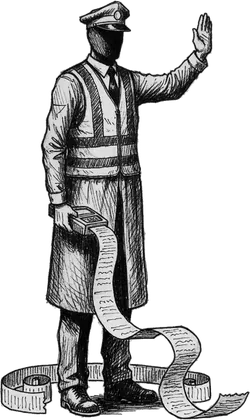
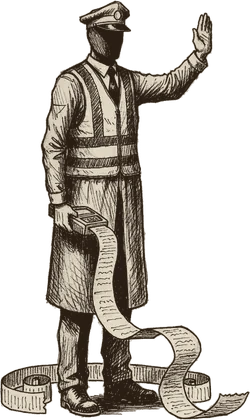
Fight: sepia enemies and portraits, life as one drop and a number, intent glyph and number centred together
tools/art/sepia.py locks grey art to the ink-to-paper ramp; ui:check gains
a non-attack intent state and measures it.

Claude-Session: https://claude.ai/code/session_01XK56x6EkciZruNGShKy1r8

diff --git a/apps/play/src/styles.css b/apps/play/src/styles.css
@@ -793,7 +793,14 @@ footer {
   width: 22px;
   height: 22px;
 }
-.threat > b {
+.threat > .mark {
+  position: relative;
+  display: flex;
+  align-items: center;
+  gap: 2px;
+}
+.threat > b,
+.threat > .mark b {
   position: relative;
   font-size: 30px;
   font-weight: 800;
@@ -813,6 +820,7 @@ footer {
 }
 /* Numbers and words printed on a shape are centred by their capitals, not the font's line box */
 .threat > b,
+.threat > .mark b,
 .shield-mark b,
 .gcard .seal b,
 .pile b,
@@ -898,7 +906,7 @@ footer {
   margin-top: -4px;
 }
 
-/* Life: ten drops of blood, filled like vials, the exact number beside them */
+/* Life: one drop as its sign, then the number */
 .foe-life {
   display: flex;
   align-items: center;
@@ -911,32 +919,19 @@ footer {
 .drops {
   display: flex;
   align-items: center;
-  gap: 8px;
-}
-.drops .row {
-  display: flex;
-  gap: 3px;
+  gap: 6px;
 }
 .drops .drop {
-  position: relative;
-  width: 13px;
-  height: 21px;
-}
-.drops .drop img {
-  position: absolute;
-  inset: 0;
-  width: 100%;
-  height: 100%;
+  width: 15px;
+  height: 22px;
   object-fit: contain;
 }
-/* Drops the next blow would drain go pale and breathe */
-.drops .risk .full {
-  opacity: 0.35;
-}
-.drops .risk {
+/* When the next blow would take some of it, the drop breathes */
+.drops.at-risk .drop {
   animation: breathe 0.8s ease-in-out infinite alternate;
 }
 .drops .num {
+  position: relative;
   font-size: 14px;
   font-weight: 700;
   color: var(--on-night-soft);
@@ -947,9 +942,6 @@ footer {
   font-size: 24px;
   font-weight: 800;
   color: var(--on-night);
-}
-.drops .num {
-  position: relative;
 }
 /* The coming loss hangs over the number, so the row doesn't grow */
 .drops .num .loss {
@@ -962,11 +954,11 @@ footer {
   color: var(--suit-spades-night);
 }
 .drops.you .drop {
-  width: 14px;
-  height: 23px;
+  width: 18px;
+  height: 26px;
 }
 .drops.you .num b {
-  font-size: 26px;
+  font-size: 28px;
 }
 
 /* Immunity: the suit it shrugs off, in that suit's ink, struck through. Cards of that suit are struck through in your hand too. */
@@ -1027,9 +1019,6 @@ footer {
   padding: 6px 12px 6px 4px;
   border-radius: 999px;
   background: radial-gradient(closest-side, color-mix(in srgb, var(--night) 80%, transparent) 60%, transparent);
-}
-.you-zone .drops .row {
-  gap: 2px;
 }
 .you-zone .floater {
   top: -40px;

diff --git a/apps/play/src/kit/pieces.tsx b/apps/play/src/kit/pieces.tsx
@@ -75,28 +75,14 @@ export function ShieldMark({ n, small, preview }: { n: number; small?: boolean; 
 
 
 /**
- * Life as ten drops of blood, each a tenth of the whole, filled like a vial
- * from the bottom; the exact number sits beside them. Drops that the next
- * blow would drain are hatched. The enemy's and yours are drawn the same.
+ * Life: one drop of blood as the sign for it, then the exact number. The
+ * coming loss hangs over the number in red. The enemy's and yours are drawn
+ * the same. (Ten drops filled like vials read as busy, so they went.)
  */
 export function Drops({ hp, max, loss, who }: { hp: number; max: number; loss: number; who: "foe" | "you" }) {
-  const per = max / 10;
-  const after = Math.max(0, hp - loss);
   return (
-    <div className={`drops ${who}`}>
-      <div className="row">
-        {Array.from({ length: 10 }, (_, i) => {
-          const lo = i * per;
-          const fill = Math.min(1, Math.max(0, (hp - lo) / per));
-          const risk = loss > 0 && hp > lo && after < lo + per;
-          return (
-            <span key={i} className={`drop ${risk ? "risk" : ""}`} aria-hidden="true">
-              <img src={UI["blood-drop-flat-empty"]} alt="" draggable={false} />
-              {fill > 0 && <img className="full" src={UI["blood-drop-flat"]} style={{ clipPath: `inset(${(1 - fill) * 100}% 0 0 0)` }} alt="" draggable={false} />}
-            </span>
-          );
-        })}
-      </div>
+    <div className={`drops ${who} ${loss > 0 ? "at-risk" : ""}`} title={`${Math.max(0, hp)} of ${max} life`}>
+      <img className="drop" src={UI["blood-drop-flat"]} alt="" draggable={false} />
       <span className="num">
         <b>{Math.max(0, hp)}</b>/{max}
         {loss > 0 && <em className="loss">−{Math.min(loss, hp)}</em>}

diff --git a/apps/play/src/kit/StyleGuide.tsx b/apps/play/src/kit/StyleGuide.tsx
@@ -282,7 +282,7 @@ export function StyleGuide() {
             </State>
             <RunStatus hp={28} max={40} gold={120} />
           </Part>
-          <Part name="Blood, moons and block" job="From the fight: HP as ten drops, actions as gibbous moons, block as the shield.">
+          <Part name="Blood, moons and block" job="From the fight: HP as a drop and its number, actions as gibbous moons, block as the shield.">
             <div className="sg-col">
               <Drops hp={30} max={40} loss={6} who="you" />
               <div className="sg-row">

diff --git a/apps/play/src/fight.tsx b/apps/play/src/fight.tsx
@@ -359,8 +359,10 @@ function Threat({ run, a, adding }: { run: Run; a: EnemyAction; adding: number }
   return (
     <div className="threat" title={title}>
       <img className="blot" src={UI["blot-paper"]} alt="" draggable={false} />
-      <Glyph name={glyph} fallback={icon} />
-      <b>{text}</b>
+      <span className="mark">
+        <Glyph name={glyph} fallback={icon} />
+        <b>{text}</b>
+      </span>
     </div>
   );
 }

diff --git a/tools/art/sepia.py b/tools/art/sepia.py
@@ -1,0 +1,28 @@
+"""Lock grey artwork to the house sepia ramp (ink #2A1E14 to paper #ECE3CF).
+
+    python3 tools/art/sepia.py apps/play/src/assets/enemy-*.webp
+
+Rewrites each file in place. Neutral pixels are mapped by brightness onto the
+ramp; coloured pixels (a red drip, a pink wash) are kept as they are; alpha
+is untouched. Running it twice changes nothing visible.
+"""
+import sys
+import numpy as np
+from PIL import Image
+
+INK = np.array([0x2A, 0x1E, 0x14], float)
+PAPER = np.array([0xEC, 0xE3, 0xCF], float)
+
+for path in sys.argv[1:]:
+    im = Image.open(path).convert("RGBA")
+    a = np.asarray(im).astype(float)
+    rgb, alpha = a[..., :3], a[..., 3:]
+    lum = rgb @ [0.299, 0.587, 0.114]
+    t = np.clip((lum - 20) / 215, 0, 1)[..., None]
+    sepia = INK + (PAPER - INK) * t
+    # Keep real colour: fully for strong spot ink, blended for the in-between
+    chroma = (rgb.max(2) - rgb.min(2))[..., None]
+    keep = np.clip((chroma - 35) / 30, 0, 1)
+    out = sepia * (1 - keep) + rgb * keep
+    Image.fromarray(np.concatenate([np.clip(out, 0, 255), alpha], 2).astype(np.uint8)).save(path, quality=90, method=6)
+    print("sepia", path)
